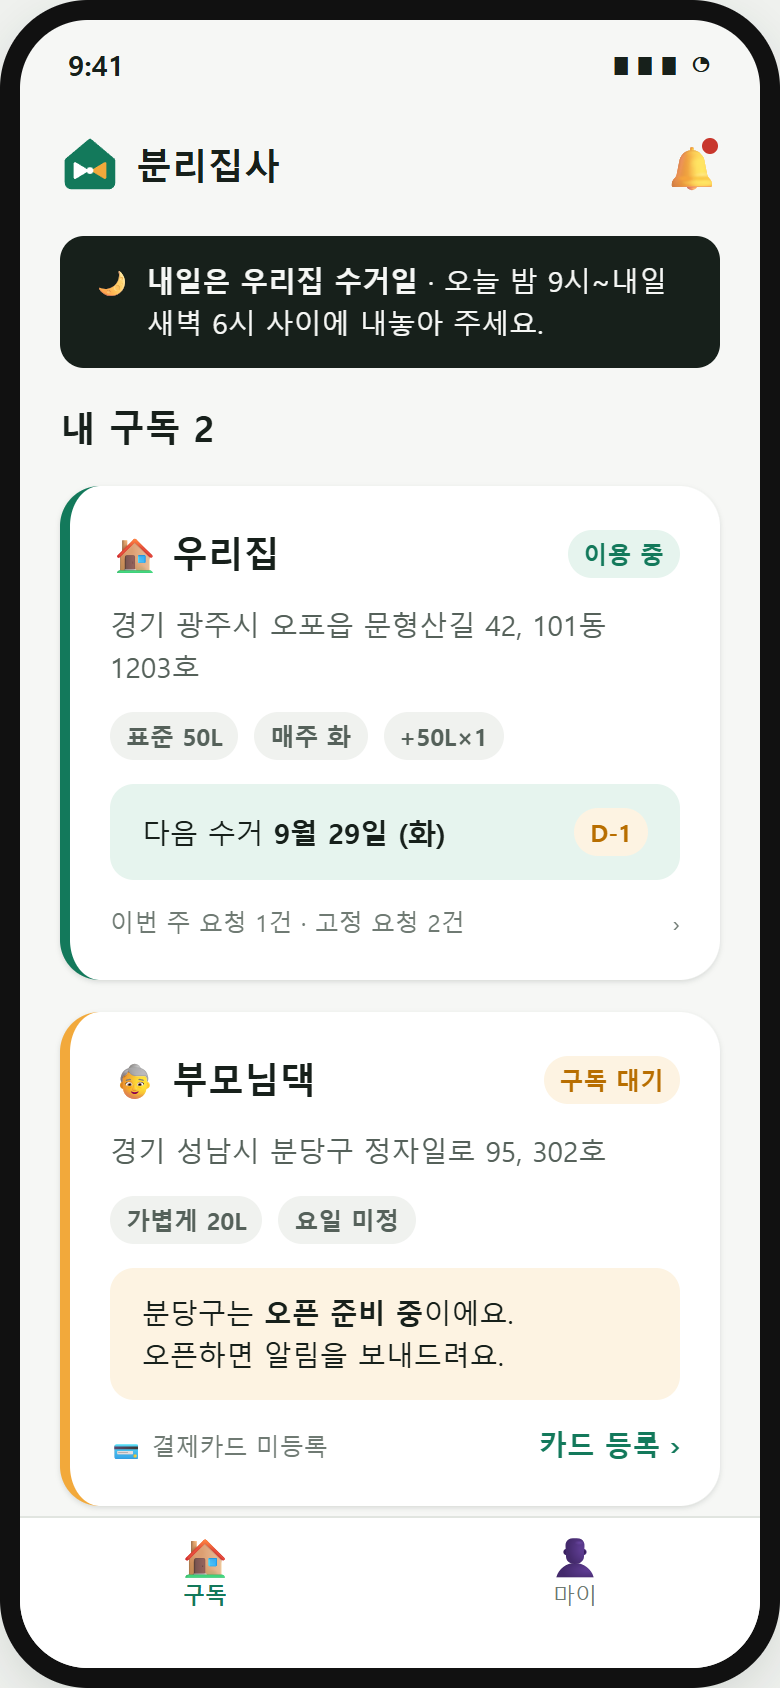
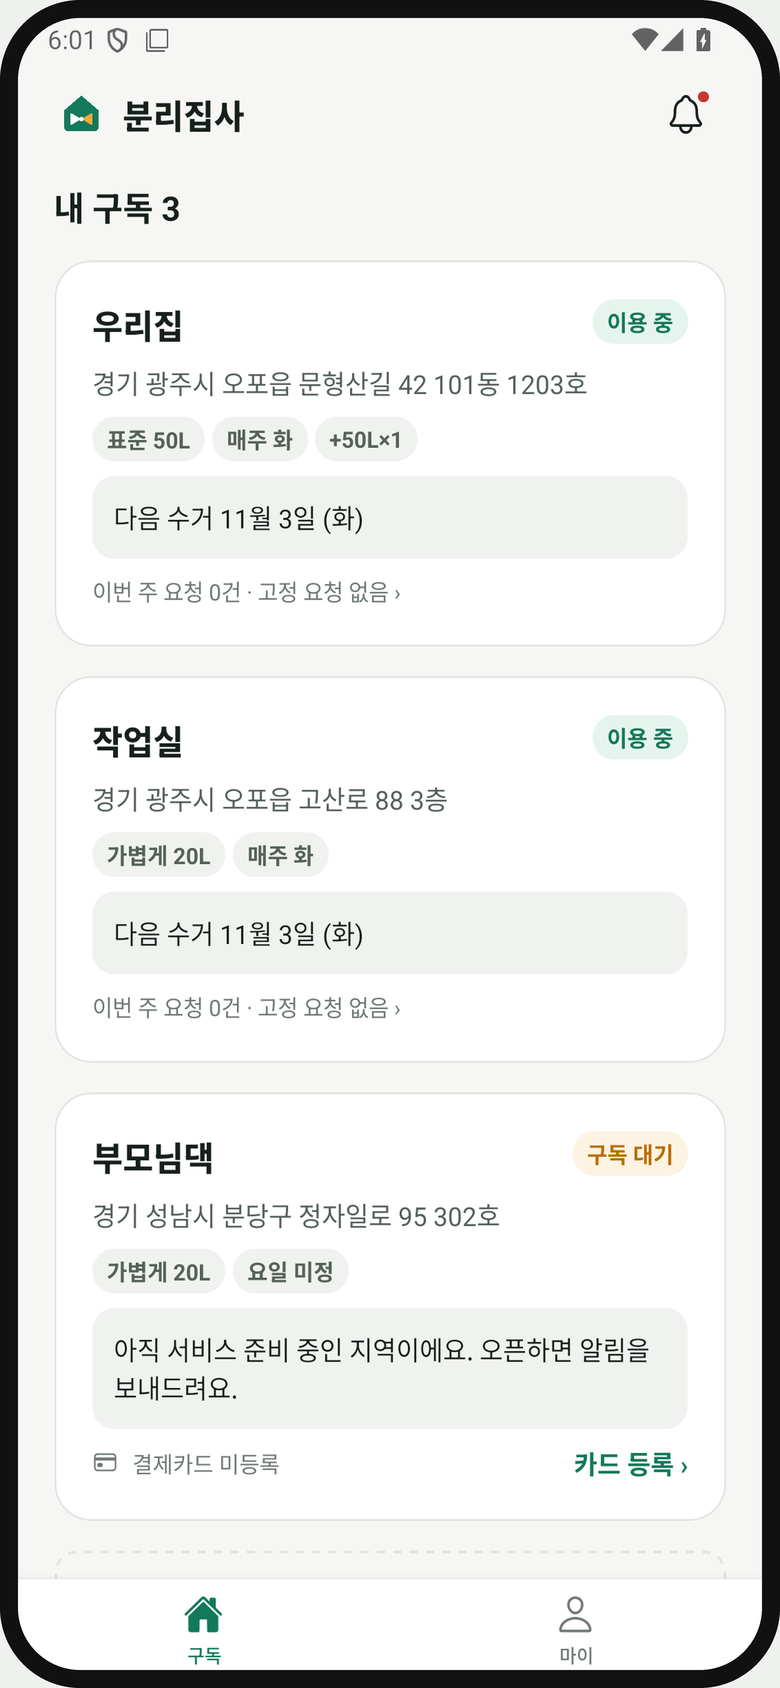
content: restore 2x2 overview cards, add screen row, real service app home capture

diff --git a/public/projects/personal-sanitation/index.html b/public/projects/personal-sanitation/index.html
@@ -44,8 +44,8 @@
   .hero-shots img { width: 46%; max-width: 240px; border-radius: 28px; box-shadow: var(--shadow); }
   .hero-shots img:last-child { margin-top: 48px; }
 
-  /* 숫자 */
-  .grid.two.services { margin-top: 16px; grid-template-columns: 1fr; }
+  /* 서비스 개요 */
+  .services { margin-top: 16px; }
 
   /* 카드 그리드 */
   .grid { display: grid; gap: 16px; grid-template-columns: repeat(3, 1fr); }
@@ -55,14 +55,7 @@
   .card ul { margin: 8px 0 0; padding-left: 18px; color: var(--text-2); font-size: 15px; }
   .card .tag { display: inline-block; font-size: 12px; font-weight: 700; padding: 2px 8px; border-radius: 6px; background: var(--primary-soft); color: var(--primary); margin-bottom: 10px; }
   .card .tag.plan { background: var(--accent-soft); color: #a8650a; }
-  .service-card { display: grid; grid-template-columns: minmax(0, 1fr) minmax(180px, 240px); gap: 24px; align-items: center; }
-  .service-card.web { grid-template-columns: minmax(0, 1fr) minmax(280px, 440px); }
-  .service-card.no-image { grid-template-columns: 1fr; }
-  .service-card > div { min-width: 0; }
   .service-card .chips { margin-top: 16px; }
-  .service-card figure { justify-self: end; }
-  .service-card figure img { width: 100%; max-height: 260px; object-fit: contain; object-position: center; border-radius: 14px; }
-  .service-card.web figure img { max-height: none; border: 1px solid var(--border); }
   @media (prefers-color-scheme: dark) { :root:not([data-theme="light"]) .card .tag.plan { color: var(--accent); } }
 
   /* 기술 스택 표 */
@@ -98,19 +91,11 @@
   .arch .box.ext { fill: var(--accent-soft); stroke: var(--accent); }
   .arch line, .arch path { stroke: var(--text-2); stroke-width: 1.4; fill: none; }
 
-  /* 갤러리 */
-  .tabs { display: flex; gap: 8px; margin-bottom: 20px; flex-wrap: wrap; }
-  .tabs button { font: inherit; font-size: 15px; padding: 8px 16px; border-radius: 999px; border: 1px solid var(--border); background: var(--surface); color: var(--text); cursor: pointer; }
-  .tabs button[aria-pressed="true"] { background: var(--primary); border-color: var(--primary); color: #fff; }
-  .gallery { display: none; gap: 20px; }
-  .gallery.on { display: grid; }
-  .gallery.phones { grid-template-columns: repeat(auto-fill, minmax(190px, 1fr)); }
-  .gallery.phones figure { max-width: 260px; }
-  .gallery.desks { grid-template-columns: repeat(2, 1fr); }
+  /* 대표 화면 */
+  .service-shots { display: grid; grid-template-columns: repeat(3, minmax(0, 1fr)); gap: 20px; margin-top: 32px; align-items: start; }
   figure { margin: 0; }
   figure img { width: 100%; display: block; cursor: zoom-in; }
-  .phones figure img { border-radius: 24px; box-shadow: var(--shadow); }
-  .desks figure img { border-radius: 12px; border: 1px solid var(--border); box-shadow: var(--shadow); aspect-ratio: 1440 / 860; object-fit: cover; object-position: top; }
+  .service-shots img { height: 340px; object-fit: contain; object-position: top; border-radius: 14px; box-shadow: var(--shadow); }
   figcaption { font-size: 14px; color: var(--text-2); margin-top: 10px; }
   figcaption b { color: var(--text); display: block; }
 
@@ -119,9 +104,8 @@
   dialog img { max-width: 94vw; max-height: 90vh; display: block; border-radius: 12px; }
 
   @media screen and (max-width: 860px) {
-    .hero-grid, .grid, .grid.two, .gallery.desks { grid-template-columns: 1fr; }
-    .service-card, .service-card.web { grid-template-columns: 1fr; }
-    .service-card figure { justify-self: center; }
+    .hero-grid, .grid, .grid.two, .service-shots { grid-template-columns: 1fr; }
+    .service-shots img { width: auto; height: auto; max-width: 100%; max-height: 560px; margin: 0 auto; }
     .stack { grid-template-columns: 1fr; }
     .stack > div:nth-child(2) { border-top: 1px solid var(--border); }
     .stack .k { border-top: 1px solid var(--border); }
@@ -129,16 +113,14 @@
     section { padding: 40px 0; }
   }
 
-  /* PDF 인쇄: 탭 대신 모든 화면 그룹을 펼치고, 카드·이미지가 페이지 사이에서 잘리지 않게 */
+  /* PDF 인쇄: 카드·이미지가 페이지 사이에서 잘리지 않게 */
   @page { size: A4; margin: 12mm; }
   @media print {
     body { -webkit-print-color-adjust: exact; print-color-adjust: exact; font-size: 14px; }
     header.hero { padding: 24px 0; }
     section { padding: 28px 0; }
-    .tabs { display: none; }
-    .gallery { display: grid !important; margin-bottom: 28px; }
-    .gallery::before { content: attr(data-label); grid-column: 1 / -1; font-weight: 700; font-size: 18px; }
-    .gallery.phones { grid-template-columns: repeat(5, 1fr); gap: 14px; }
+    .service-shots { gap: 14px; }
+    .service-shots img { height: 180px; }
     .card, .arch, figure, .stack > div, .flow-notes li { break-inside: avoid; }
     .topbar { display: none; }
     h2, .eyebrow, .lead { break-after: avoid; }
@@ -147,7 +129,6 @@
     h3 { font-size: 16px; }
     .arch { overflow: visible; }
     .arch svg { min-width: 0; }
-    .gallery.desks { break-before: page; }
     .screen-only { display: none; }
   }
 
@@ -181,7 +162,7 @@
       </div>
     </div>
     <div class="hero-shots">
-      <img src="images/app-subscribe.png" alt="서비스 앱 구독 페이지">
+      <img src="images/app-home.png" alt="서비스 앱 홈 화면: 내 구독 목록">
       <img src="images/driver-today.png" alt="운영 앱 오늘 수거 페이지">
     </div>
   </div>
@@ -194,10 +175,15 @@
     <h2>프로젝트 개요</h2>
     <p class="lead">구독제 분리수거 대행 서비스입니다.<br>고객 앱은 Android·iOS 크로스 플랫폼을 지원합니다.<br>고객·기사·운영 담당자가 하나의 서비스 흐름으로 연결됩니다.</p>
     <div class="grid two services">
-      <div class="card service-card"><div><span class="tag">고객 앱</span><h3>서비스 앱</h3><p>구독을 신청하고, 정해진 수거 일정과 요청 사항을 관리하는 고객용 앱입니다.</p><div class="chips"><span class="chip">React</span><span class="chip">React Native</span><span class="chip">Expo</span></div></div><figure><img src="images/app-subscribe.png" alt="서비스 앱 구독 페이지"></figure></div>
-      <div class="card service-card"><div><span class="tag">기사 앱</span><h3>운영 앱</h3><p>수거 방문기사에게 오늘의 수거 권역과 방문 목록을 보여줍니다. 완료·미수거 기록을 오프라인에서도 저장하고, 관리자 웹의 작업 현황과 연계되도록 설계했습니다.</p><div class="chips"><span class="chip">React</span><span class="chip">React Native</span><span class="chip">Expo</span></div></div><figure><img src="images/driver-today.png" alt="운영 앱 오늘 수거 페이지"></figure></div>
-      <div class="card service-card web"><div><span class="tag">관리자 웹</span><h3>운영 대시보드</h3><p>오늘의 권역별 작업 현황과 구독·결제, 고객 요청, 푸시 알림, 이벤트·할인, 가격·플랜을 관리하는 운영 대시보드입니다.</p><div class="chips"><span class="chip">React</span><span class="chip">Next.js</span></div></div><figure><img src="images/dash-overview.png" alt="운영 대시보드 오늘 현황 페이지"></figure></div>
-      <div class="card service-card no-image"><div><span class="tag">API</span><h3>백엔드 서버</h3><p>고객 앱과 운영 대시보드가 공유하고 기사 앱 연동을 전제로 설계한 백엔드 API입니다. 고객·구독·수거·결제 데이터를 통합 관리해 서비스 간 데이터 정합성을 높였습니다.</p><div class="chips"><span class="chip">NestJS</span><span class="chip">PostgreSQL</span><span class="chip">Docker</span><span class="chip">TypeORM</span></div></div></div>
+      <div class="card service-card"><span class="tag">고객 앱</span><h3>서비스 앱</h3><p>구독을 신청하고, 정해진 수거 일정과 요청 사항을 관리하는 고객용 앱입니다.</p><div class="chips"><span class="chip">React</span><span class="chip">React Native</span><span class="chip">Expo</span></div></div>
+      <div class="card service-card"><span class="tag">기사 앱</span><h3>운영 앱</h3><p>수거 방문기사에게 오늘의 수거 권역과 방문 목록을 보여줍니다. 완료·미수거 기록을 오프라인에서도 저장하고, 관리자 웹의 작업 현황과 연계되도록 설계했습니다.</p><div class="chips"><span class="chip">React</span><span class="chip">React Native</span><span class="chip">Expo</span></div></div>
+      <div class="card service-card"><span class="tag">관리자 웹</span><h3>운영 대시보드</h3><p>오늘의 권역별 작업 현황과 구독·결제, 고객 요청, 푸시 알림, 이벤트·할인, 가격·플랜을 관리하는 운영 대시보드입니다.</p><div class="chips"><span class="chip">React</span><span class="chip">Next.js</span></div></div>
+      <div class="card service-card"><span class="tag">API</span><h3>백엔드 서버</h3><p>고객 앱과 운영 대시보드가 공유하고 기사 앱 연동을 전제로 설계한 백엔드 API입니다. 고객·구독·수거·결제 데이터를 통합 관리해 서비스 간 데이터 정합성을 높였습니다.</p><div class="chips"><span class="chip">NestJS</span><span class="chip">PostgreSQL</span><span class="chip">Docker</span><span class="chip">TypeORM</span></div></div>
+    </div>
+    <div class="service-shots">
+      <figure><img src="images/app-home.png" alt="서비스 앱 홈 화면: 내 구독 목록"><figcaption>서비스 앱 화면</figcaption></figure>
+      <figure><img src="images/driver-today.png" alt="운영 앱 오늘 수거 페이지"><figcaption>운영 앱 화면</figcaption></figure>
+      <figure><img src="images/dash-overview.png" alt="운영 대시보드 오늘 현황 페이지"><figcaption>운영 대시보드 화면</figcaption></figure>
     </div>
   </div>
 </section>
@@ -423,44 +409,14 @@
   </div>
 </section>
 
-<section>
-  <div class="wrap">
-    <p class="eyebrow">SCREENS</p>
-    <h2>화면</h2>
-    <p class="lead">각 서비스의 대표 화면입니다. <span class="screen-only">이미지를 누르면 크게 볼 수 있습니다.</span></p>
-    <div class="tabs">
-      <button aria-pressed="true" data-tab="app">서비스 앱</button>
-      <button aria-pressed="false" data-tab="driver">운영 앱</button>
-      <button aria-pressed="false" data-tab="dash">운영 대시보드</button>
-    </div>
-
-    <div class="gallery phones on" id="app" data-label="서비스 앱">
-      <figure><img src="images/app-subscribe.png" alt="서비스 앱 구독 페이지"><figcaption>봉투 용량 · 추가 봉투 선택</figcaption></figure>
-    </div>
-
-    <div class="gallery phones" id="driver" data-label="운영 앱">
-      <figure><img src="images/driver-today.png" alt="운영 앱 오늘 수거 페이지"><figcaption>권역 · 방문 목록 · 작업 현황</figcaption></figure>
-    </div>
-
-    <div class="gallery desks" id="dash" data-label="운영 대시보드">
-      <figure><img src="images/dash-overview.png" alt="운영 대시보드 오늘 현황 페이지"><figcaption>권역별 수거 진행 · 미수거 · 결제 실패</figcaption></figure>
-    </div>
-  </div>
-</section>
-
 </main>
 
 <dialog id="zoom"><img alt=""></dialog>
 <script>
-  // 탭 전환
-  document.querySelectorAll('.tabs button').forEach(b => b.addEventListener('click', () => {
-    document.querySelectorAll('.tabs button').forEach(x => x.setAttribute('aria-pressed', x === b));
-    document.querySelectorAll('.gallery').forEach(g => g.classList.toggle('on', g.id === b.dataset.tab));
-  }));
   // 이미지 확대 (바깥 클릭으로 닫기)
   const dlg = document.getElementById('zoom');
   const open = img => { dlg.querySelector('img').src = img.src; dlg.querySelector('img').alt = img.alt; dlg.showModal(); };
-  document.querySelectorAll('.gallery img').forEach(img => {
+  document.querySelectorAll('.service-shots img').forEach(img => {
     img.tabIndex = 0; img.setAttribute('role', 'button');
     img.addEventListener('click', () => open(img));
     img.addEventListener('keydown', e => { if (e.key === 'Enter' || e.key === ' ') { e.preventDefault(); open(img); } });
